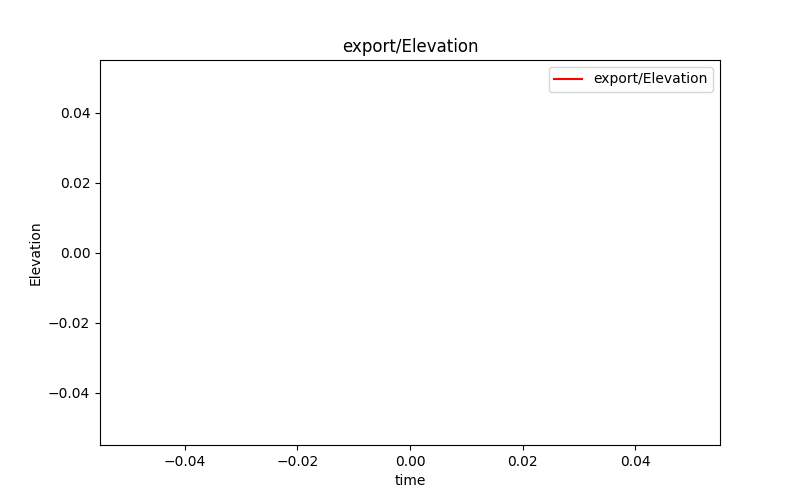
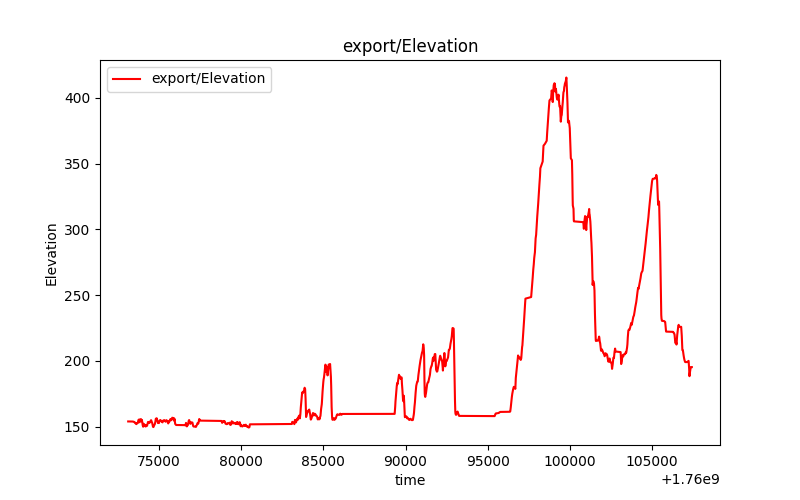
mainfile working now

diff --git a/main.py b/main.py
@@ -3,8 +3,11 @@ from analysis.analysis import read_from_file, data_cleansing, data_calculations
 from analysis.APIrequest import get_elevation_from_Api_post
 from analysis.cadence import cadence_from_data
 from STLgenerator.STLgenerator import Meshing
+import cartopy.crs as ccrs
+import cartopy.feature as cfeature
 from tkinter.filedialog import askopenfilename
 import numpy as np
+import matplotlib.pyplot as plt
 import math
 
 
@@ -39,12 +42,12 @@ Meshing(lon_grid, lat_grid, elevation_map)
 ################
 
 
-plot_Data_Points(time_seconds[:-1], velocities, "red", "export/velocity", "time", "velocity")
-plot_Data_Points(time_seconds, elevation_along_path, "red", "export/Elevation", "time", "Elevation")
-plot_Data_Points(time_seconds[:-1], np.diff(elevation_along_path), "green", "export/slope", "time", "Test")
-
+#plot_Data_Points(time_seconds[:-1], velocities, "red", "export/velocity", "time", "velocity")
+#plot_Data_Points(time_seconds, elevation_along_path, "red", "export/Elevation", "time", "Elevation")
+#plot_Data_Points(time_seconds[:-1], np.diff(elevation_along_path), "green", "export/slope", "time", "Test")
+'''
 plt.figure(constrained_layout=True)
-ax = plt.scatter(long, lat, c = ele, s = 0.2, cmap = 'plasma' )
+ax = plt.scatter(longitude, latitude, c = elevation_along_path, s = 0.2, cmap = 'plasma' )
 plt.xlabel("longitude")
 plt.ylabel("latitude")
 plt.title("Track")
@@ -72,15 +75,15 @@ plt.close()
 #########################
 velocities = np.append(velocities, velocities[-1])
 fig = plt.figure(figsize=(8, 8))
-proj = ccrs.LambertConformal(central_latitude=np.average(lat),central_longitude=np.average(long))
+proj = ccrs.LambertConformal(central_latitude=np.average(latitude),central_longitude=np.average(longitude))
 ax = plt.axes(projection=proj)
-extent = [np.min(long), np.max(long),np.min(lat), np.max(lat)]
+extent = [np.min(longitude), np.max(longitude),np.min(latitude), np.max(latitude)]
 ax.set_extent(extent, crs=ccrs.PlateCarree())
 ax.stock_img()
 ax.add_feature(cfeature.COASTLINE, edgecolor='gray')
 ax.add_feature(cfeature.BORDERS, edgecolor='gray')
 ax.add_feature(cfeature.STATES, edgecolor='gray')
-sc = ax.scatter(long, lat, c=velocities,  cmap='plasma', s=0.2, transform=ccrs.PlateCarree(), vmax= 2*average_velo, vmin=5)
+sc = ax.scatter(longitude, latitude, c=velocities,  cmap='plasma', s=0.2, transform=ccrs.PlateCarree(), vmax= 2*average_velo, vmin=5)
 cbar = plt.colorbar(sc, label=r'$Velocity$')
 plt.savefig("export/Velocity")
 plt.show()
@@ -90,13 +93,13 @@ plt.close()
 ### plot track in map colorcode for elevation and velocity ###
 ##############################################################
 
-Data_to_plot = get_elevation_from_Api_post(lat, long) 
+Data_to_plot = get_elevation_from_Api_post(latitude, longitude) 
 lon_grid, lat_grid = np.meshgrid(Data_to_plot[0], Data_to_plot[1])
 Meshing(lon_grid, lat_grid, Data_to_plot[2])
 
 plt.figure(figsize=(8, 5)) # TODO: Automatic width and height
 plt.scatter(lon_grid, lat_grid, c = Data_to_plot[2] , cmap = 'rainbow' )
-ax = plt.scatter(long, lat, c = velocities, s = 0.1, cmap = 'plasma' , vmax= 2*average_velo, vmin=5)
+ax = plt.scatter(longitude, latitude, c = velocities, s = 0.1, cmap = 'plasma' , vmax= 2*average_velo, vmin=5)
 plt.xlabel("longitude")
 plt.ylabel("latitude")
 plt.title("Height Profile")
@@ -112,9 +115,9 @@ plt.close()
 # lon_grid, lat_grid = np.meshgrid(Data_to_plot[0], Data_to_plot[1])
 # Meshing(lat_grid, lon_grid, Data_to_plot[2])
 # data_to_stl(lat_grid, lon_grid, Data_to_plot[2])
-
+'''
 plt.figure(figsize=(8, 5)) # TODO: Automatic width and height
-ax = plt.scatter(time_seconds[:-1], ele[:-1], c = velocities, s = 0.2, cmap = 'plasma' , vmax= 3*median_velo, vmin=0)
+ax = plt.scatter(time_seconds[:-1], elevation_along_path[:-1], c = velocities, s = 0.2, cmap = 'plasma' , vmax= 3*median_velo, vmin=0)
 plt.xlabel("time")
 plt.ylabel("elevation")
 plt.title("Height Profile")

diff --git a/GPX_File_Auswerten.py b/GPX_File_Auswerten.py
@@ -216,7 +216,7 @@ def data_to_stl(lon, lat, ele, filename="export/terrain.stl", z_scale=1.0): #, b
     terrain_mesh.save(filename)
     print("Triangles:", n_faces)
 
-'''
+
 ###############
 ### plotten ###
 ###############
@@ -291,12 +291,12 @@ cbar = plt.colorbar(ax, label=r'$Velocity$')
 plt.savefig("export/Height Profile")
 plt.show()
 plt.close()
-'''
+
 ##############################################################
 ### plot track in elevation profile colorcode for velocity ###
 ##############################################################
 plot_Data_Points(time_seconds[:-2], rolling_avg_velo, "red", "export/Elevation", "time", "rolling avg velo")
-'''
+
 Data_to_plot = get_elevation_from_Api_post(lat, long) 
 lon_grid, lat_grid = np.meshgrid(Data_to_plot[0], Data_to_plot[1])
 Meshing(lat_grid, lon_grid, Data_to_plot[2])
@@ -311,4 +311,3 @@ plt.title("Height Profile")
 cbar = plt.colorbar(ax, label=r'$Velocity$')
 plt.show()
 plt.close()
-'''
